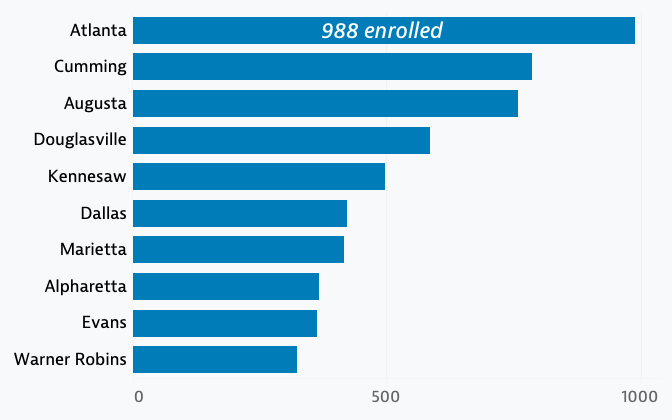
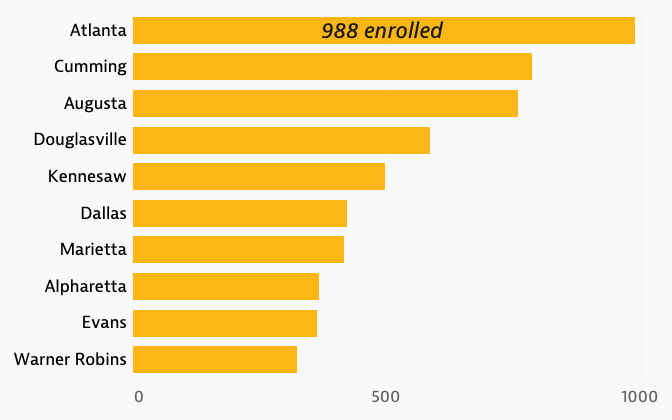
map styling edits

Changed region(s): [[0.1875, 0.031, 0.9688, 0.8976]]

diff --git a/index.html b/index.html
@@ -261,10 +261,10 @@
 
           <article>
             <div id="13" class="step">
-              <p>Georgia's colleges aren't alone in bolstering the state's cybersecurity talent. There is a statewide initiative at play, starting early in high schools. As of the 2018-2019 school year, there were over <strong class="dark-blue">300 high schools</strong> in the state with students enrolled in the Cybersecurity Career Pathway.</p>
+              <p>Georgia's colleges aren't alone in bolstering the state's cybersecurity talent. There is a statewide initiative at play, starting early in high schools. As of the 2018-2019 school year, there were over <strong class="yellow">300 high schools</strong> in the state with students enrolled in the Cybersecurity Career Pathway.</p>
             </div>
             <div id="14" class="step">
-              <p>In Cobb County, home to Kennesaw State, there over <strong class="dark-blue">1,500 high school students enrolled</strong> in this pathway, providing a homegrown source of talent for their top-tier post-secondary programs.</p>
+              <p>In Cobb County, home to Kennesaw State, there over <strong class="yellow">1,500 high school students enrolled</strong> in this pathway, providing a homegrown source of talent for their top-tier post-secondary programs.</p>
             </div>
             <div id="15" class="step">
               <p>Every corner of the state has students enrolled in the cybersecurity pathway, and while the majority are in the Atlanta and Augusta areas, Georgia has a solid foundation for a cybersecurity workforce to met the needs of any business in any location.</p>
